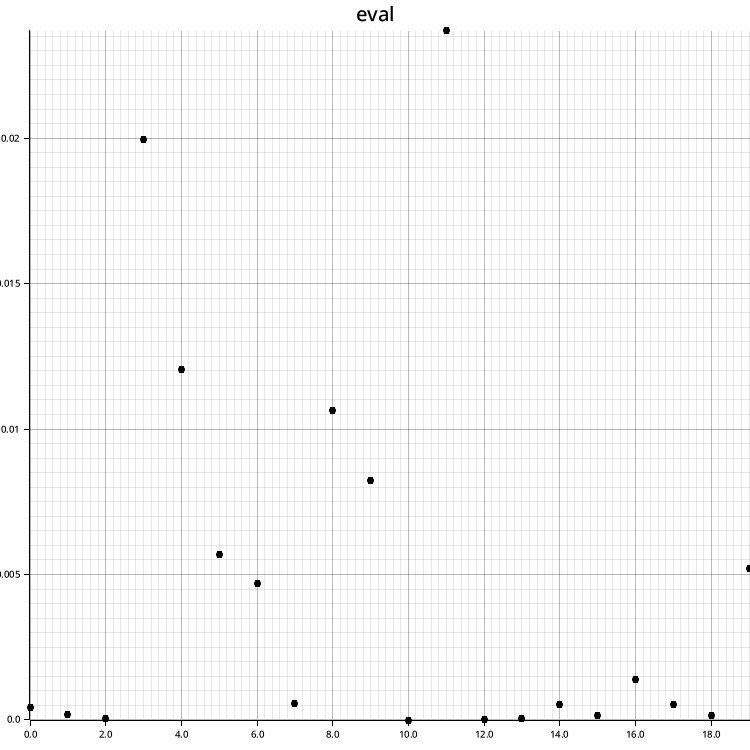
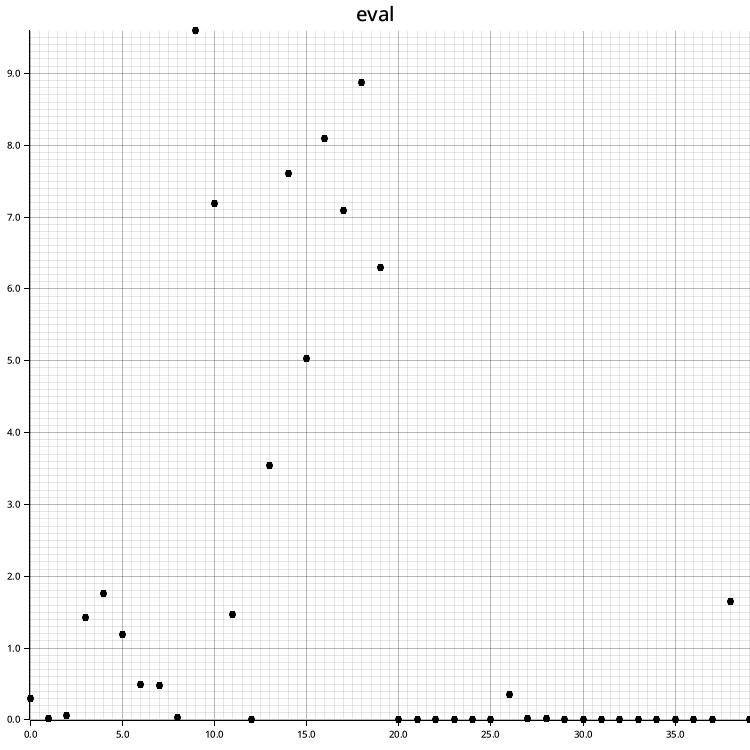
memperbarui readme.md untuk menjelaskan workflow

Changed region(s): [[0.0, 0.0307, 1.0, 1.0]]

diff --git a/src/model/model_load.rs b/src/model/model_load.rs
@@ -61,7 +61,24 @@ pub fn model_load(batch: Vec<(ArrayD<f32>, ArrayD<f32>)>) -> Vec<(f32, f32)> {
         let predict = softmax.get_ouput().unwrap();
 
         let loss = cross_entropy_loss(predict.view(), label.view(), 1);
-        println!("loss: {} | predict: {} | label: {}", loss, predict, label);
+
+        let predict_flat = predict.flatten().to_vec();
+        let predict_index = if predict_flat[0] > predict_flat[1] {
+            0
+        } else {
+            1
+        };
+
+        let label_flat = label.flatten().to_vec();
+        let label_index = if label_flat[0] > label_flat[1] { 0 } else { 1 };
+
+        println!(
+            "loss: {} | predict: {} | label: {} | status: {}",
+            loss,
+            predict_index,
+            label_index,
+            label_index == predict_index
+        );
         loss_save.push((idx as f32, loss[[0, 0]]));
     }
     loss_save

diff --git a/src/get_test_dataset.rs b/src/get_test_dataset.rs
@@ -8,15 +8,15 @@ pub fn get_test_dataset() -> Vec<(
     ArrayBase<OwnedRepr<f32>, Dim<IxDynImpl>, f32>,
 )> {
     let mut batch_sample_test = vec![];
-    let test_path_glasses = Path::new("test/glasses");
+    let test_path_glasses = Path::new("validate/glasses");
     let read_path = read_dir(test_path_glasses).expect("The Path Not Found");
     for entry in read_path {
         match entry {
             Ok(entry) => {
                 let file_name = entry.file_name().into_string().unwrap();
 
-                let img =
-                    image::open(format!("test/glasses/{}", file_name)).expect("image not found");
+                let img = image::open(format!("validate/glasses/{}", file_name))
+                    .expect("image not found");
 
                 let pixels = img.resize_exact(64, 64, FilterType::Nearest).into_rgb32f();
 
@@ -39,15 +39,15 @@ pub fn get_test_dataset() -> Vec<(
         }
     }
 
-    let test_path_glasses = Path::new("test/noglasses");
+    let test_path_glasses = Path::new("validate/noglasses");
     let read_path = read_dir(test_path_glasses).expect("The Path Not Found");
     for entry in read_path {
         match entry {
             Ok(entry) => {
                 let file_name = entry.file_name().into_string().unwrap();
 
-                let img =
-                    image::open(format!("test/noglasses/{}", file_name)).expect("image not found");
+                let img = image::open(format!("validate/noglasses/{}", file_name))
+                    .expect("image not found");
 
                 let pixels = img.resize_exact(64, 64, FilterType::Nearest).into_rgb32f();
 

diff --git a/src/main.rs b/src/main.rs
@@ -1,7 +1,13 @@
 use cnn_tools::{draw_plot, get_test_dataset, get_train_dataset, model_load, model_train};
 
 fn main() {
+    // let train_dataset = get_train_dataset();
     let test_dataset = get_test_dataset();
+
+    // let loss = model_train(train_dataset);
+    // draw_plot("training", loss, "training.png", (750, 750));
+
+    // let test_dataset = get_test_dataset();
     let loss = model_load(test_dataset);
     draw_plot("eval", loss, "eval.png", (750, 750));
 }

diff --git a/src/model/model_train.rs b/src/model/model_train.rs
@@ -12,21 +12,17 @@ pub fn model_train(batch: Vec<(ArrayD<f32>, ArrayD<f32>)>) -> Vec<(f32, f32)> {
     let max_pooling_1 = MaxPooling2DNonBatch::new(2, 2);
 
     let mut conv2d_2 = Conv2DNonBatch::new(8, 16, 3);
-
     let max_pooling_2 = MaxPooling2DNonBatch::new(2, 2);
 
     let mut conv2d_3 = Conv2DNonBatch::new(16, 32, 3);
-
     let max_pooling_3 = MaxPooling2DNonBatch::new(2, 2);
 
     let mut linear_1 = LinaerNonBatch::new(1152, 512);
-
     let mut linear_2 = LinaerNonBatch::new(512, 2);
-
     let mut softmax = Softmax::new(1);
     // model
 
-    for epoch in 0..20 {
+    for epoch in 0..30 {
         let mut mean = 0.;
         for (idx, (sample, label)) in batch.iter().enumerate() {
             let conv2d_1_result = conv2d_1.forward(sample.view());

diff --git a/src/tools/method/conv2d.rs b/src/tools/method/conv2d.rs
@@ -5,8 +5,7 @@ use std::{
 };
 
 use ndarray::{
-    Array1, Array2, Array4, ArrayBase, ArrayD, ArrayViewD, ArrayViewMutD, Axis, Dim, OwnedRepr,
-    Slice, s,
+    Array1, Array2, Array4, ArrayBase, ArrayD, ArrayViewD, ArrayViewMutD, Axis, Dim, OwnedRepr, s,
 };
 use rand::rng;
 use rand_distr::{Distribution, Normal};

diff --git a/README.md b/README.md
@@ -3,3 +3,96 @@
 ### PROGRAMMING SUB DIVISI MACHINE LEARNING
 
 ## Workflow
+Diawali dengan pemilihan dataset berupa dataset untuk membedakan gambar seseorang menggunakan kaca mata dan tidak, 
+
+### Dataset
+dataset di dapatkan dari kaggle dengan link:
+[https://www.kaggle.com/datasets/ashfakyeafi/glasses-classification-dataset](https://www.kaggle.com/datasets/ashfakyeafi/glasses-classification-dataset)
+
+pada program, terdapat function untuk mengambil dataset untuk training dan test, melalui function [get_train_dataset](./src/get_train_dataset.rs) dan [get_test_dataset](./src/get_test_dataset.rs).
+
+### Plot Draw
+lalu terdapat program yang berfungsi untuk membuat sebuah grafik plot melalui function [draw_plot](./src/draw_plot.rs)
+
+### Model
+dalam pelatihan model, menggunakan struktur model CNN yang dapat dilihat pada [model_train](./src/model/model_train) yang berfungsi untuk training dan save parameters. Secara umum bentuk model seperti dibawah ini
+```rust
+    // model
+    let mut conv2d_1 = Conv2DNonBatch::new(3, 8, 3);
+    let max_pooling_1 = MaxPooling2DNonBatch::new(2, 2);
+    
+    let mut conv2d_2 = Conv2DNonBatch::new(8, 16, 3);
+    let max_pooling_2 = MaxPooling2DNonBatch::new(2, 2);
+    
+    let mut conv2d_3 = Conv2DNonBatch::new(16, 32, 3);
+    let max_pooling_3 = MaxPooling2DNonBatch::new(2, 2);
+    
+    let mut linear_1 = LinaerNonBatch::new(1152, 512);
+    let mut linear_2 = LinaerNonBatch::new(512, 2);
+    let mut softmax = Softmax::new(1);
+    // model
+```
+untuk loss function menggunakan cross entropy loss dan optimazer menggunakan Adam.
+
+### Training
+Untuk training, hanya menggunakan dataset untuk training [get_train_dataset](./src/get_train_dataset.rs) tanpa penggunaan data testing, dikarenakan untuk tidak memakan terlalu banyak peforma.
+Untuk melakukan training menggunakan function [model_train](./src/model/model_train).
+untuk hasil training menggunakan function [draw_plot](./src/draw_plot.rs) yang telah di siapkan sebelumya. dengan hasil:
+
+<img width=500 src="./training_epoch.png">
+</img>
+
+<img width=500 src="./training.png">
+</img>
+
+dapat dilihat dari gambar bahwa dilakukan 20 epoch dengan nilai loss yang menurun, menandakan model belajar dengan baik.
+
+### save params
+penyimpanan parameters secara otomatis di saat penggunaan [model_train](./src/model/model_train), terdapat pada bagian:
+```rust
+    conv2d_1.saving_params("params/conv2d_1.json").unwrap();
+    conv2d_2.saving_params("params/conv2d_2.json").unwrap();
+    conv2d_3.saving_params("params/conv2d_3.json").unwrap();
+    linear_1.saving_params("params/linear_1.json");
+    linear_2.saving_params("params/linear_2.json");
+```
+semua paramaters akan disimpan dalam bentuk json di dalam folder [params](./params)
+
+### Testing
+untuk testing, menggunakan dataset testing melalui function [get_test_dataset](./src/get_test_dataset.rs) dan menggunakan function [model_load](./src/model/model_load.rs).
+model akan secara otomatis load parameters yang telah di simpan pada folder [params](./params), bagian code yang bertanggung jawab kurang lebih seperti yang ada di bawah ini:
+```rust
+    // model
+    let mut conv2d_1 = Conv2DNonBatch::new(3, 8, 3);
+    conv2d_1.load_params("params/conv2d_1.json");
+
+    let max_pooling_1 = MaxPooling2DNonBatch::new(2, 2);
+
+    let mut conv2d_2 = Conv2DNonBatch::new(8, 16, 3);
+    conv2d_2.load_params("params/conv2d_2.json");
+
+    let max_pooling_2 = MaxPooling2DNonBatch::new(2, 2);
+
+    let mut conv2d_3 = Conv2DNonBatch::new(16, 32, 3);
+    conv2d_3.load_params("params/conv2d_3.json");
+
+    let max_pooling_3 = MaxPooling2DNonBatch::new(2, 2);
+
+    let mut linear_1 = LinaerNonBatch::new(1152, 512);
+    linear_1.load_params("params/linear_1.json");
+
+    let mut linear_2 = LinaerNonBatch::new(512, 2);
+    linear_2.load_params("params/linear_2.json");
+
+    let mut softmax = Softmax::new(1);
+    // model
+```
+hasil testing berupa:
+
+<img width=500 src="eval_epoch.png">
+</img>
+
+<img width=500 src="eval.png">
+</img>
+
+dapat dilihat diatas, bahwa model memberikan prediksi yang masih belum baik, dari loss yang di dapatkan saat training dengan hasil evaluasi model, maka disimpulkan bahwa model mengalami overfitting.